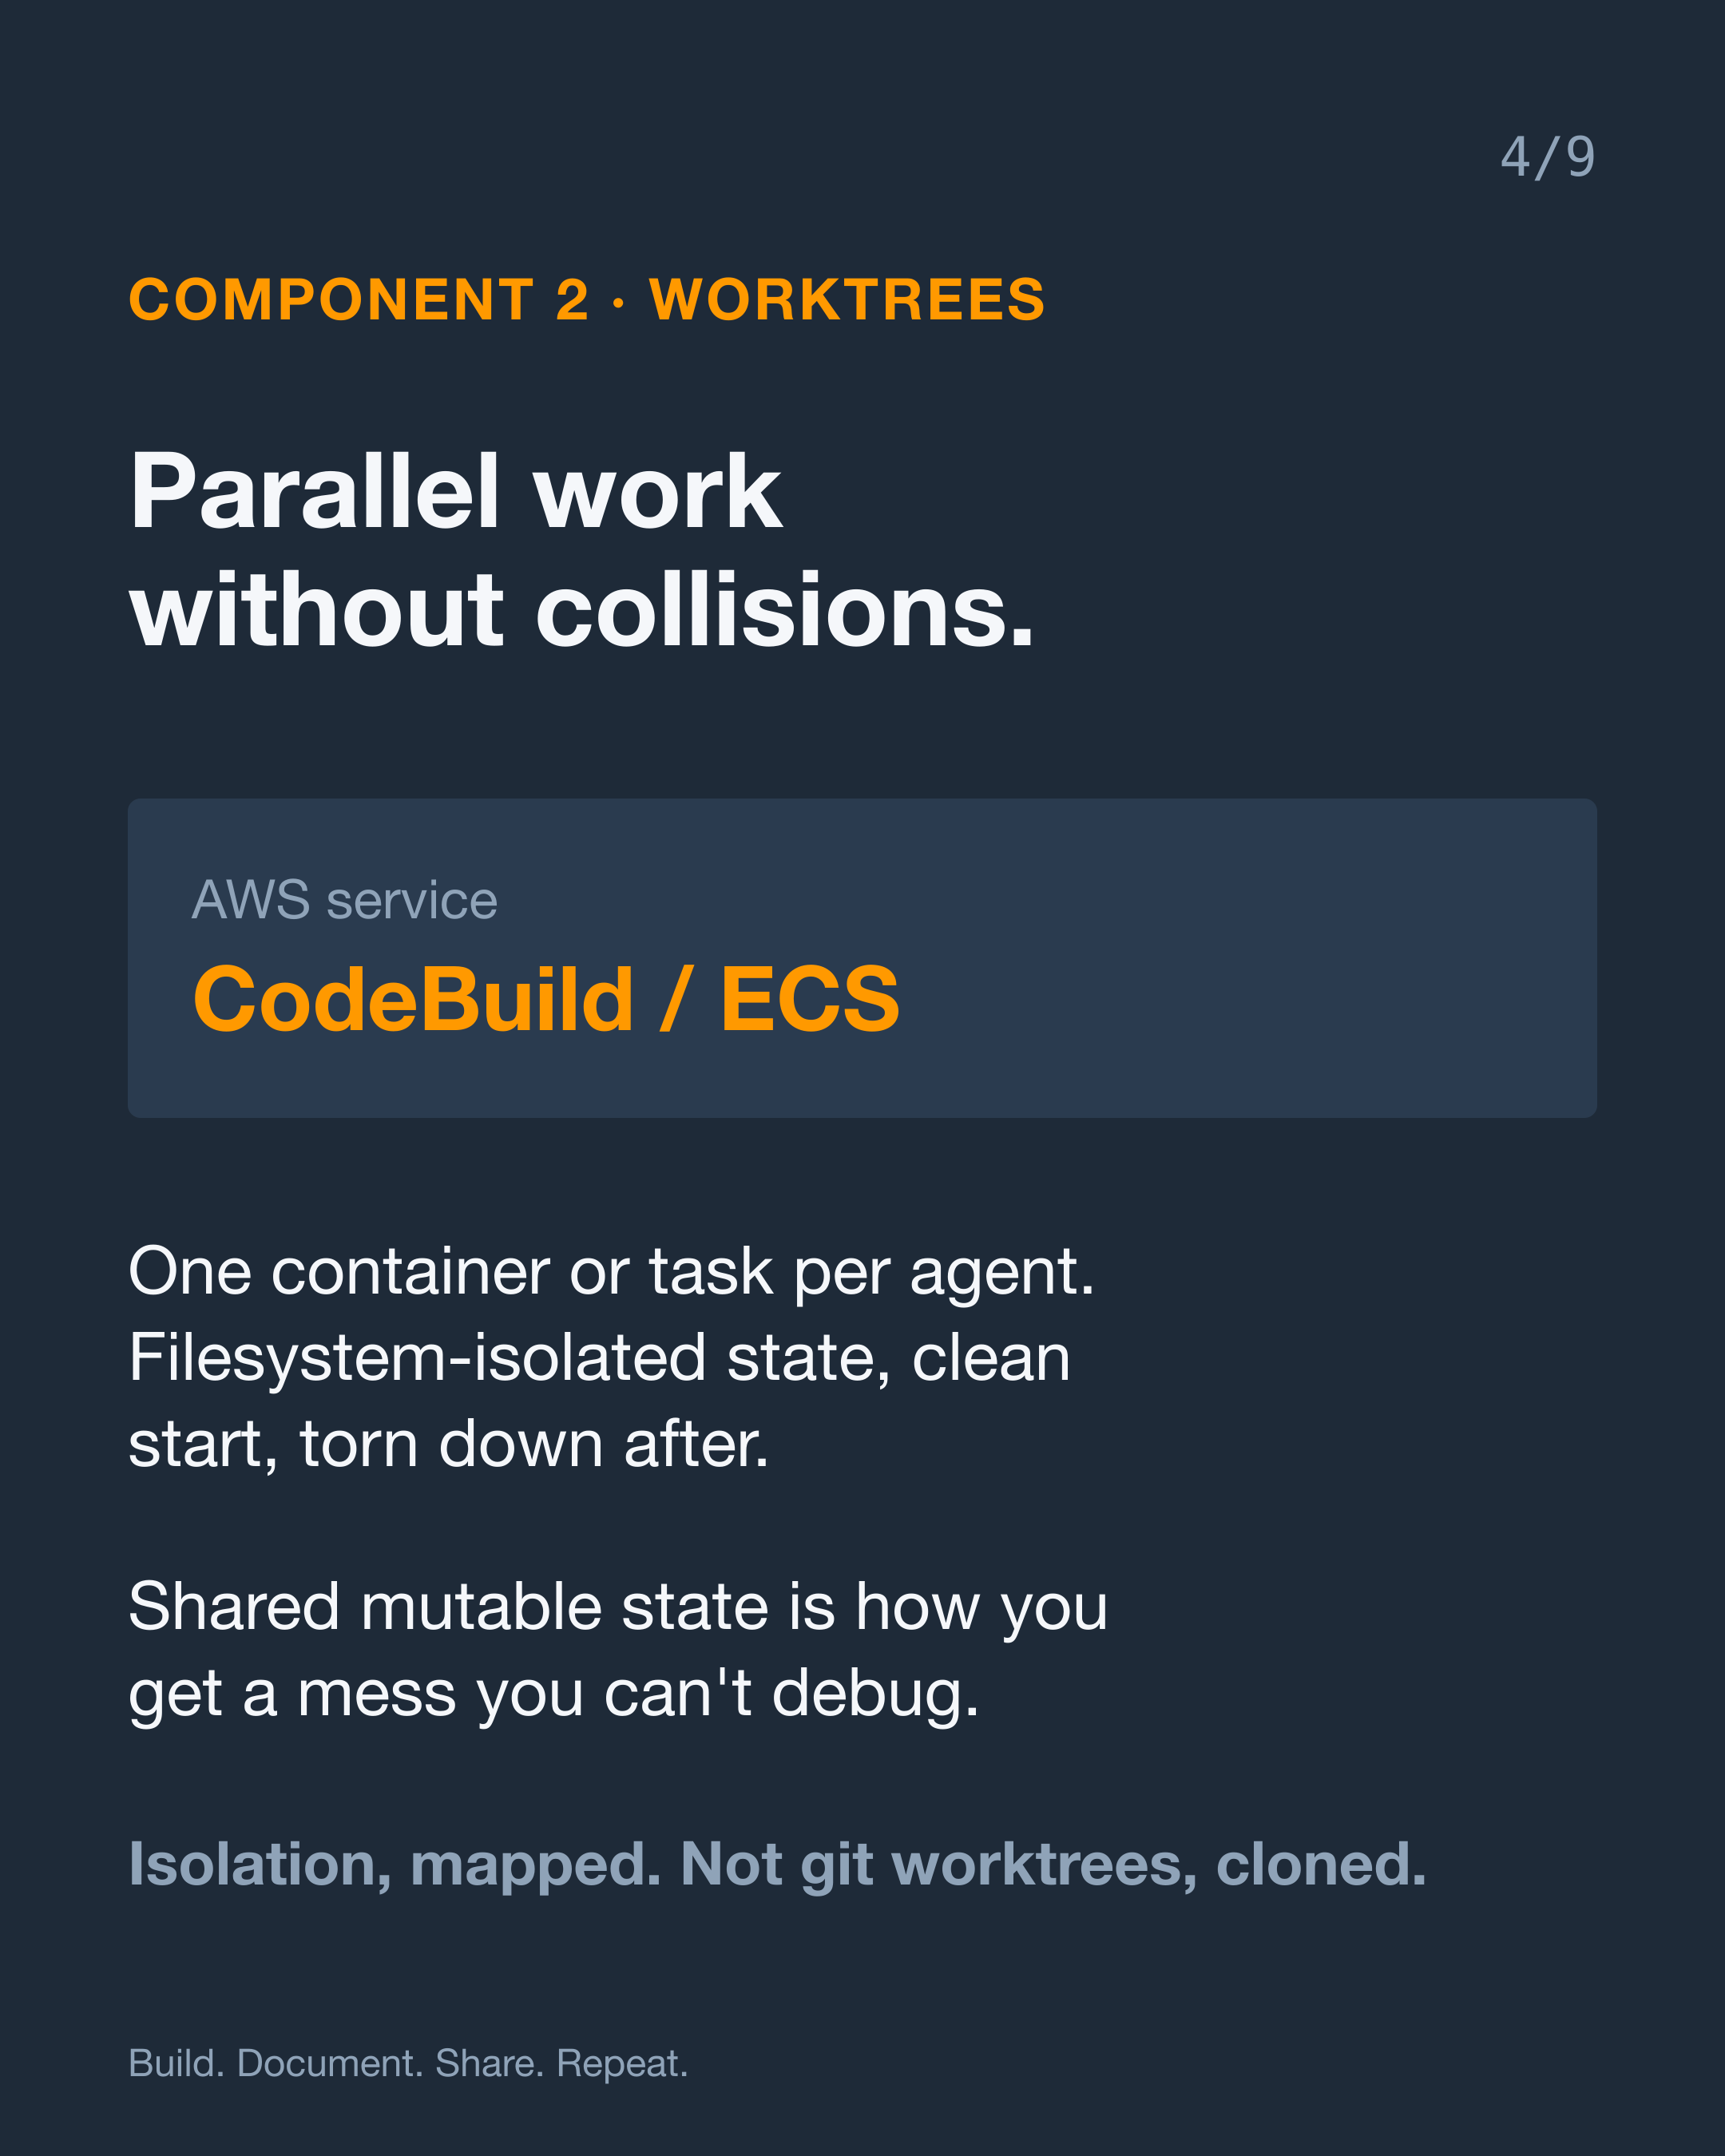
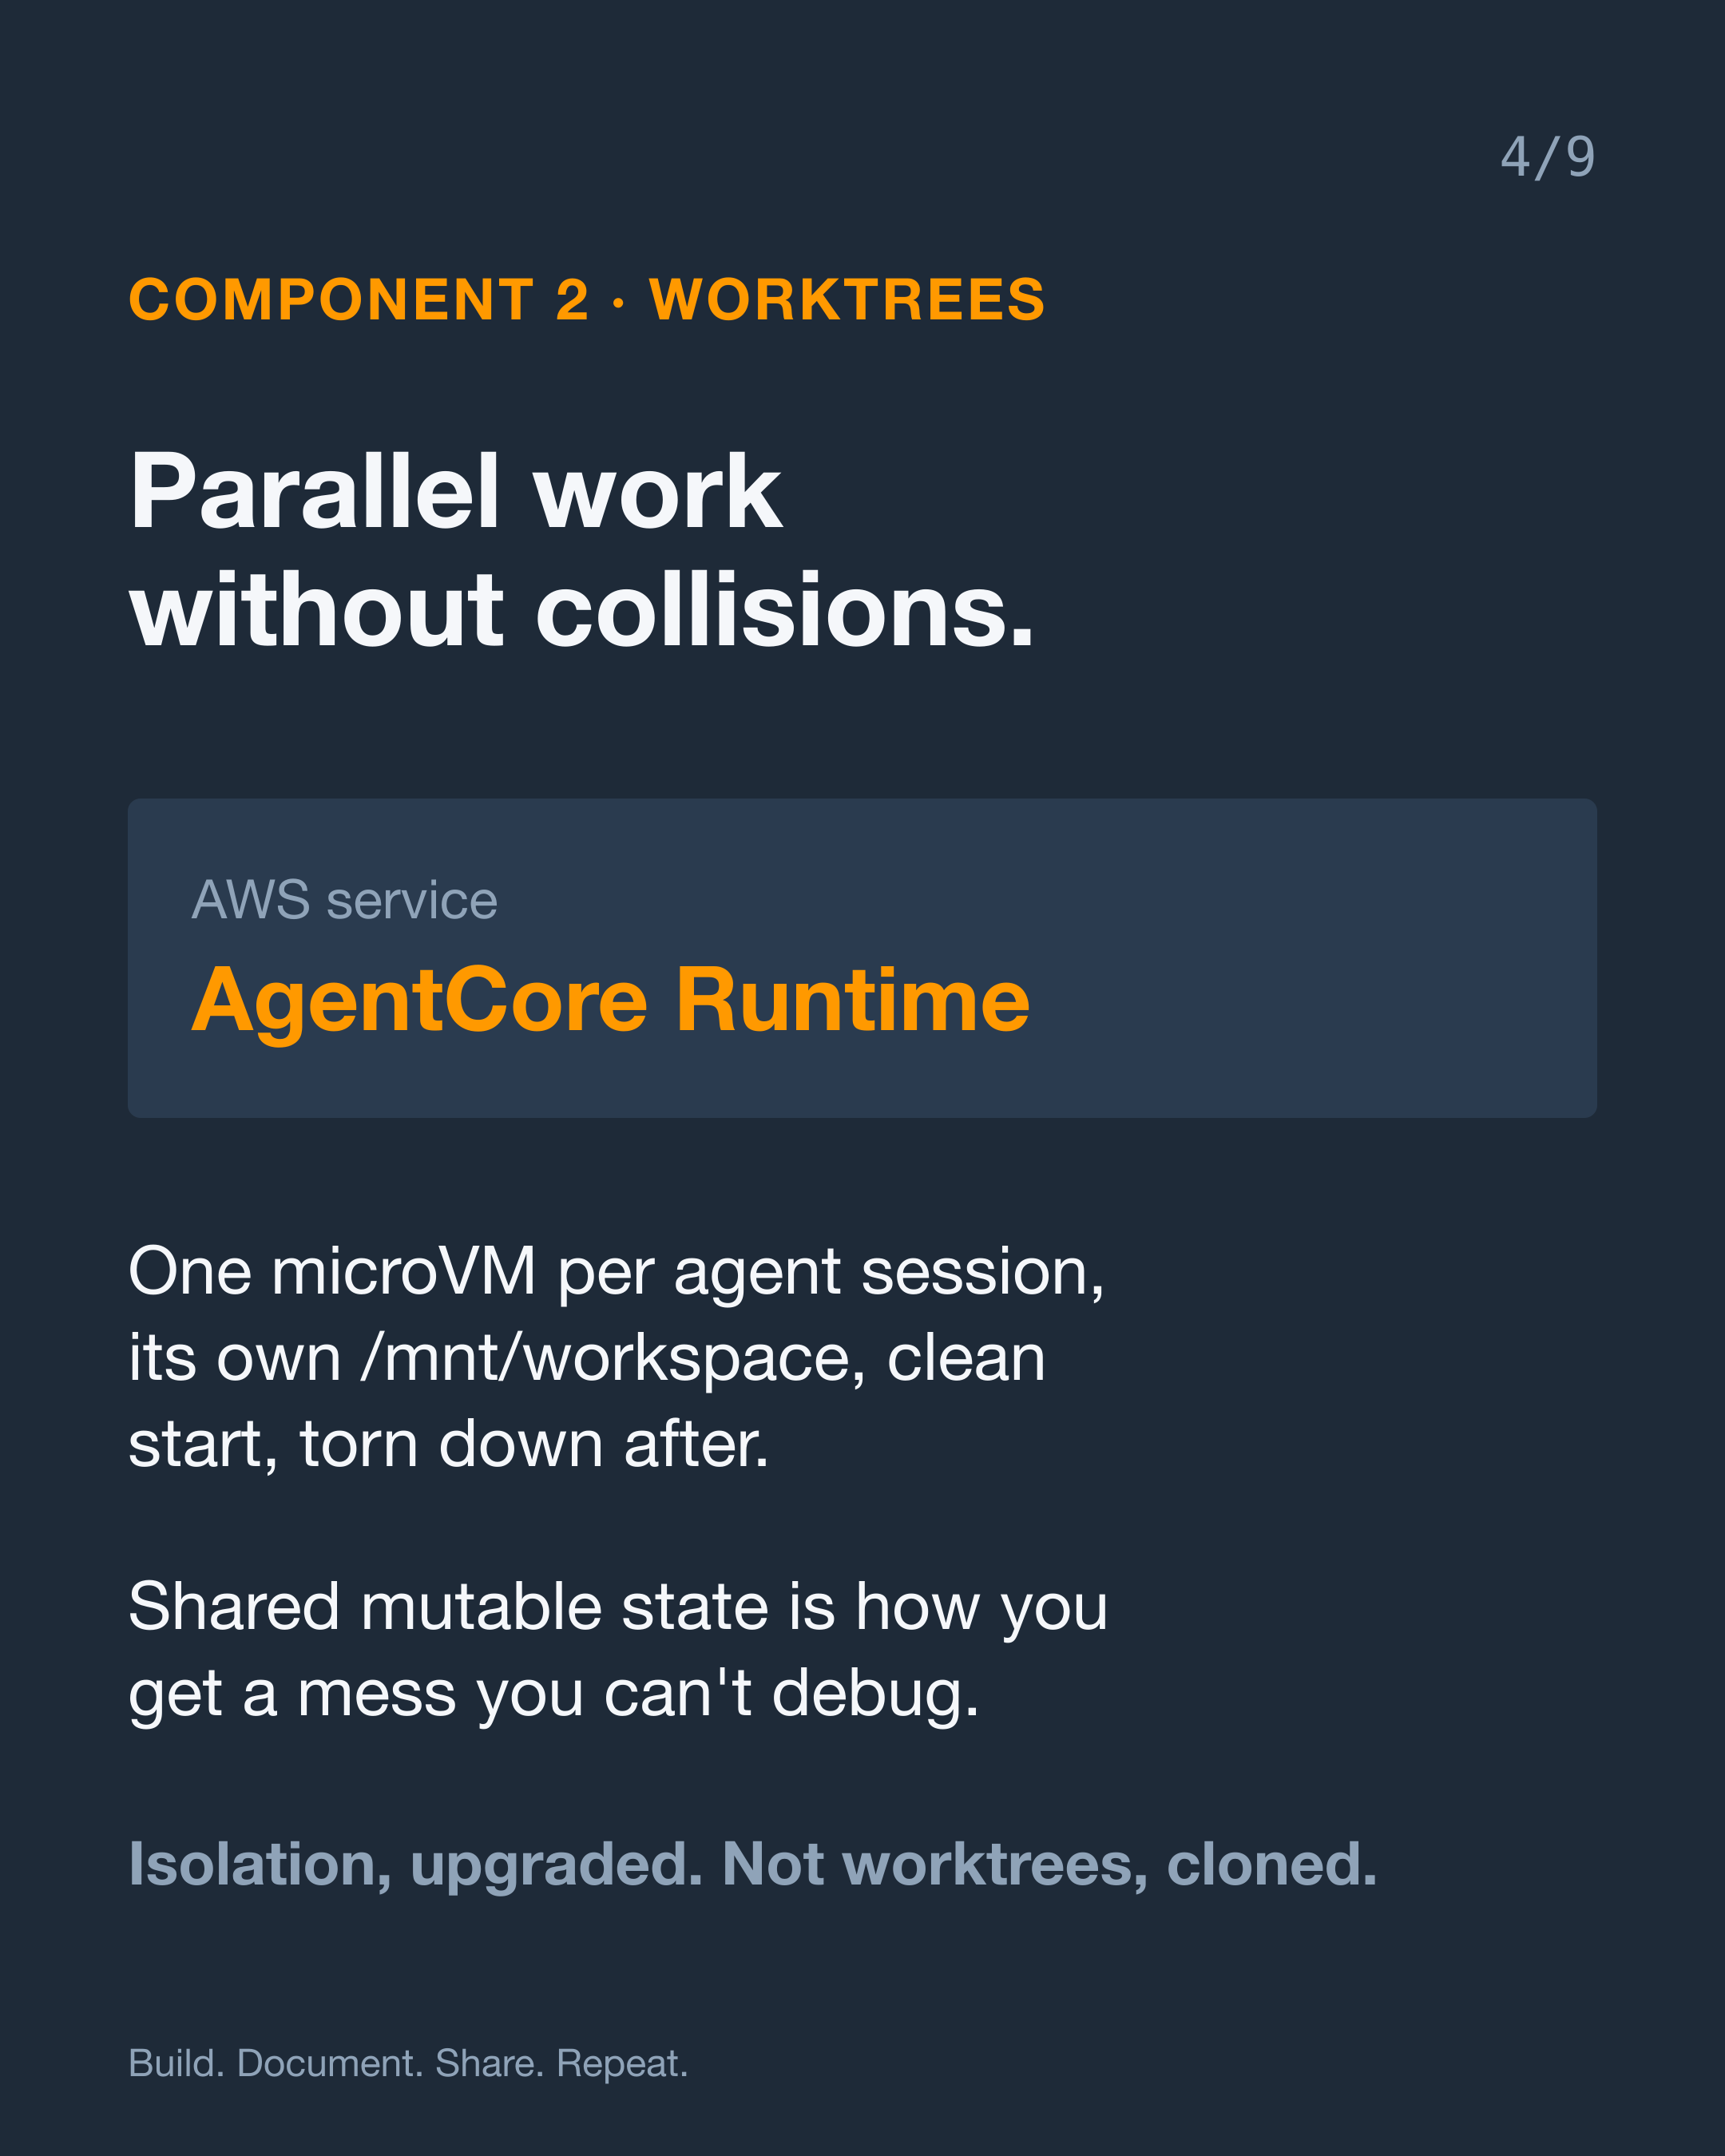
Retarget AgentCore: loop-engineering (pre-publish, T-2 verify-flags)
Bedrock Agents goes Classic Jul 30 (closed to new customers) — caught at
verify-flags, second save by the gate after gstack. Sub-agents row, code
sample, diagram and graphics retargeted to AgentCore harness/Runtime;
4 VERIFY flags resolved against primary sources; worktrees section
upgraded to microVM isolation; regional quota nuance; Osmani component
count precised (5 + memory). Publishes Tue Jul 21.

Changed region(s): [[0.062, 0.56, 0.6204, 0.6533], [0.0931, 0.4356, 0.5894, 0.4978], [0.2481, 0.84, 0.8375, 0.9022]]

diff --git a/articles/devto/loop-engineering-on-aws.md b/articles/devto/loop-engineering-on-aws.md
@@ -23,26 +23,26 @@ That's the gap this article fills. Six components, six concrete services, one mi
 
 ## The six components, and why the timing is not an accident
 
-Osmani breaks a loop into six parts: automations, worktrees, skills, plugins (MCP), sub-agents, and memory files. Read that list as an architecture. Each part answers a different question. What triggers the work. Where the work runs in isolation. What the agent knows. How it reaches tools. Who does the specialized labor. And what it remembers between runs.
+Osmani lists five components: automations, worktrees, skills, plugins (MCP), and sub-agents, plus memory as what he calls the sixth thing, state that lives outside the single conversation. Read that list as an architecture. Each part answers a different question. What triggers the work. Where the work runs in isolation. What the agent knows. How it reaches tools. Who does the specialized labor. And what it remembers between runs.
 
-The reason this is worth writing *now* is that the AWS side matured on almost the same calendar as Osmani's post. AWS MCP Server hit GA in May 2026. AgentCore Policy went GA in March, AgentCore Evaluations the same month, and the AgentCore harness reached GA in June 2026 (<!-- VERIFY: confirm AgentCore harness GA date; seed cites 2026-06 AWS What's New -->). Two threads, the mental model and the infrastructure, arrived at the same knot in the same month.
+The reason this is worth writing *now* is that the AWS side matured on almost the same calendar as Osmani's post. AWS MCP Server hit GA in May 2026. AgentCore Policy went GA in March, AgentCore Evaluations the same month, and the AgentCore harness reached GA in June 2026, per the [AgentCore release notes](https://docs.aws.amazon.com/bedrock-agentcore/latest/devguide/release-notes.html). Two threads, the mental model and the infrastructure, arrived at the same knot in the same month.
 
 Here is the map I keep coming back to.
 
-![Six loop components mapped to AWS services: Automations to EventBridge plus Lambda, Worktrees to CodeBuild/ECS tasks, Skills to Bedrock Knowledge Bases, Plugins (MCP) to AWS MCP Server, Sub-agents to Bedrock Agents, Memory files to S3 plus DynamoDB](https://raw.githubusercontent.com/rivadaviam/aws-articles/main/articles/assets/loop-engineering-on-aws/01-osmani-aws-map.png)
+![Six loop components mapped to AWS services: Automations to EventBridge plus Lambda, Worktrees to AgentCore Runtime microVMs, Skills to Bedrock Knowledge Bases, Plugins (MCP) to AWS MCP Server, Sub-agents to AgentCore harness, Memory files to S3 plus DynamoDB](https://raw.githubusercontent.com/rivadaviam/aws-articles/main/articles/assets/loop-engineering-on-aws/01-osmani-aws-map.png?v=2)
 
 *Osmani's six loop components on the left, the AWS service each one lives on when you run it in production on the right.*
 
 | Component (Osmani) | What it does | AWS service | Key config |
 |---|---|---|---|
 | **Automations** | Scheduled discovery. The loop fires itself, no human prompt. | EventBridge (scheduled rules + event bus) → Lambda | Cron expression or event pattern; Lambda as dispatcher |
-| **Worktrees** | Isolated branch per agent so parallel runs don't collide | CodeBuild containers / ECS tasks | One task definition per agent; filesystem-isolated state |
+| **Worktrees** | Isolated branch per agent so parallel runs don't collide | AgentCore Runtime (microVM per session) | Each session gets its own `/mnt/workspace`; git stays the coordination layer |
 | **Skills** | Reusable project knowledge the agent loads into context | Bedrock Knowledge Bases (Smart Parsing) | Pre-computed chunking + embeddings; structured S3 too |
 | **Plugins / MCP** | Standard connection to external tools | AWS MCP Server (GA May 2026) | The new default; replaced custom integrations |
-| **Sub-agents** | Specialists orchestrated by a coordinator | Bedrock Agents (multi-agent collaboration) | Orchestrator + specialist agents; AgentCore harness |
+| **Sub-agents** | Specialists orchestrated by a coordinator | AgentCore harness (GA June 2026) | Orchestrator harness routing to specialist agents |
 | **Memory files** | State that survives between sessions | S3 (long-term) + DynamoDB (short-term) | S3 for context files; DynamoDB for fast state |
 
-Sources: [Addy Osmani, LinkedIn (June 9, 2026)](https://www.linkedin.com/posts/addyosmani_ai-softwareengineering-programming-activity-7469999258658791425-cTvy); [AWS MCP Servers announcement](https://aws.amazon.com/blogs/machine-learning/introducing-aws-mcp-servers-for-code-assistants/); [Amazon Bedrock Agents](https://aws.amazon.com/bedrock/agents/).
+Sources: [Addy Osmani, LinkedIn (June 9, 2026)](https://www.linkedin.com/posts/addyosmani_ai-softwareengineering-programming-activity-7469999258658791425-cTvy); [AWS MCP Servers announcement](https://aws.amazon.com/blogs/machine-learning/introducing-aws-mcp-servers-for-code-assistants/); [Amazon Bedrock AgentCore](https://docs.aws.amazon.com/bedrock-agentcore/latest/devguide/what-is-bedrock-agentcore.html).
 
 Let me walk each row, because a table hides the interesting decisions.
 
@@ -57,18 +57,19 @@ On AWS, the trigger is EventBridge. A scheduled rule handles the "run discovery 
 ```python
 # Lambda dispatcher — invoked by an EventBridge scheduled rule.
 # Job: decide what this cycle's objective is, then hand it to the orchestrator.
+# IAM: this function's role needs bedrock-agentcore:InvokeAgentRuntime on the runtime ARN.
+import json
 import boto3
 
-bedrock_agent = boto3.client("bedrock-agent-runtime")
+agentcore = boto3.client("bedrock-agentcore")
 
 def handler(event, context):
     # EventBridge gives us the trigger; we set the recursive objective.
     objective = build_objective_from(event)   # cron tick or event payload
-    response = bedrock_agent.invoke_agent(
-        agentId="ORCH_AGENT_ID",
-        agentAliasId="PROD",
-        sessionId=session_for(event),          # ties back to memory, see below
-        inputText=objective,
+    response = agentcore.invoke_agent_runtime(
+        agentRuntimeArn="ORCH_RUNTIME_ARN",
+        runtimeSessionId=session_for(event),   # ties back to memory, see below
+        payload=json.dumps({"prompt": objective}),
     )
     return {"status": "dispatched", "objective": objective}
 ```
@@ -81,9 +82,9 @@ Why put a Lambda between EventBridge and Bedrock at all? Because the dispatcher 
 
 Osmani's "worktrees" borrows from git: each agent gets its own branch so two agents editing the same tree don't corrupt each other's state. When agents run in parallel, shared mutable state is how you get a mess that's impossible to debug.
 
-The AWS translation is filesystem-level isolation per agent: a CodeBuild container or an ECS task per agent, one task definition each. Each run gets a clean, isolated environment and tears down after.
+The AWS translation is isolation per agent session: AgentCore Runtime runs each session in its own microVM. Each run gets a clean, isolated environment and tears down after.
 
-I want to be honest about the seam here. The seed maps worktrees to CodeBuild and ECS, and for isolation that holds. But Osmani's worktrees are literally git worktrees inside a running coding agent, and whether you reproduce *that* on Bedrock (agents operating on real git worktrees, not just isolated containers) is a different question I haven't run to ground. <!-- VERIFY: can Bedrock Agents operate on actual git worktrees, or is the CodeBuild/ECS mapping only an isolation analogy? Seeds assert the mapping but don't prove the git-worktree equivalence. --> Treat this row as "isolation, mapped," not "git worktrees, reproduced." I'd rather flag the gap than sell you a clean line that isn't clean.
+I flagged this row as a seam in an early draft, and running it to ground made the map better. Osmani's worktrees are literally git worktrees inside a running coding agent, and AWS doesn't reproduce them. It replaces them. Each AgentCore session gets its own microVM with its own `/mnt/workspace`, so the isolation that git worktrees fake at the directory level happens at the machine level, with git left in place as the coordination layer. [AWS's own write-up on hosting coding agents](https://aws.amazon.com/blogs/machine-learning/its-safe-to-close-your-laptop-now-hosting-coding-agents-on-amazon-bedrock-agentcore/) is explicit: no worktree management needed, because the filesystem itself is per-session. Treat this row as "isolation, upgraded," not "git worktrees, reproduced."
 
 ---
 
@@ -99,7 +100,7 @@ The decision I'd surface here is *when* Knowledge Bases earns its cost. Retrieva
 
 This is the row that changed the most in 2026. The Model Context Protocol went from "interesting" to the default way agents reach tools. The production-stack write-up from @codewithbrij (Instagram, ~May 2026, 649 likes) put it bluntly: MCP replaced custom integrations, and the whole stack stopped growing taller and instead thinned out in the middle and thickened at the edges. Fewer bespoke connectors, more standard ones.
 
-AWS MCP Server reaching GA in May 2026 is what makes this real on AWS, and per Prasad Rao (AWS Principal SA, LinkedIn, May 2026) it's pay-as-you-go with no extra charge for the server itself (<!-- VERIFY: confirm "no extra charge for the Bedrock MCP Server" against current AWS pricing before publishing -->). Practically, MCP is how your orchestrator calls out to external tools without you writing and maintaining glue code for each one.
+AWS MCP Server reaching GA in May 2026 is what makes this real on AWS, and per Prasad Rao (AWS Principal SA, LinkedIn, May 2026) it's pay-as-you-go with no extra charge for the server itself, which [AWS's GA announcement](https://aws.amazon.com/about-aws/whats-new/2026/05/aws-mcp-server/) confirms: you pay only for the resources your agents use. Practically, MCP is how your orchestrator calls out to external tools without you writing and maintaining glue code for each one.
 
 ---
 
@@ -107,7 +108,7 @@ AWS MCP Server reaching GA in May 2026 is what makes this real on AWS, and per P
 
 A single agent doing everything is a single agent doing everything badly. Osmani's loop uses sub-agents: specialists, each good at one thing, orchestrated by a coordinator.
 
-Bedrock Agents supports multi-agent collaboration directly: an orchestrator agent routes work to specialist agents. The AgentCore harness is what holds that arrangement together in production. And "in production" comes with numbers you should know before you design: AgentCore documents a quota of **200 TPS per agent** and **5,000 active sessions per account** ([AgentCore release notes](https://docs.aws.amazon.com/bedrock-agentcore/latest/devguide/release-notes.html)). Agents hold sessions, sometimes for a long time, so the session ceiling is the one I'd model first. It's easy to blow past 5,000 concurrent sessions with a fleet of long-lived loops and never touch the TPS limit.
+On AWS this now lives in one place: the AgentCore harness, GA since June 2026, holds an orchestrator and its specialists together in production. (If you were about to reach for Bedrock Agents for this row, don't. That service is now [Bedrock Agents Classic](https://docs.aws.amazon.com/bedrock/latest/userguide/agents-classic-maintenance-mode.html) and closes to new customers on July 30, 2026; AWS points migrations at AgentCore.) And "in production" comes with numbers you should know before you design: AgentCore's June 2026 quotas are **200 TPS per agent** and **5,000 active sessions per account** in us-east-1 and us-west-2, 2,500 in other Regions ([AgentCore release notes](https://docs.aws.amazon.com/bedrock-agentcore/latest/devguide/release-notes.html)). Agents hold sessions, sometimes for a long time, so the session ceiling is the one I'd model first. It's easy to blow past 5,000 concurrent sessions with a fleet of long-lived loops and never touch the TPS limit.
 
 This is also where Osmani's *other* framing clicks into place. A month before the LinkedIn post, he wrote on O'Reilly Radar about "agent harness engineering," and the line worth taping to your monitor is: *"A decent model with an excellent harness outperforms an excellent model with a poor harness."* The harness and the loop are the same idea named for two audiences. The AgentCore harness is AWS's answer to exactly that sentence.
 
@@ -128,7 +129,7 @@ Put the six together and you get a loop small enough to draw and real enough to 
 ```
 EventBridge rule (cron / event)
   -> Lambda (dispatcher, sets objective + circuit breaker)
-    -> Bedrock Agents (orchestrator)
+    -> AgentCore harness (orchestrator)
         |- MCP Server (external tools)
         |- Knowledge Base (context / skills)
         |- Sub-agents (specialists)
@@ -136,7 +137,7 @@ EventBridge rule (cron / event)
   -> CloudWatch (loop observability)
 ```
 
-<!-- VERIFY: confirm exact IAM permissions and ARNs for the EventBridge -> Lambda -> Bedrock Agents chain against current docs before anyone runs this. -->
+The permission chain is short. EventBridge needs invoke on the Lambda, and the Lambda's role needs `bedrock-agentcore:InvokeAgentRuntime` on the orchestrator's runtime ARN ([invoke docs](https://docs.aws.amazon.com/bedrock-agentcore/latest/devguide/runtime-invoke-agent.html)). That's the whole chain.
 
 Notice observability is on the diagram, not a footnote. The @codewithbrij write-up made the point that stuck with me: in 2026 you don't bolt observability on at day 100. It runs vertically through the whole thing from day 1, as a rail. On AWS that rail is X-Ray for distributed traces across the full loop (trigger to agent to tool to response), CloudWatch for latency and token metrics, and CloudTrail for the audit log of what the agent decided. If you're doing this for an enterprise, CloudTrail is the row compliance will ask about first.
 
@@ -158,14 +159,14 @@ I feel this one personally, because I run these loops daily. The temptation is r
 
 ## What I'd tell you to do next
 
-Start smaller than the diagram. One EventBridge rule, one Lambda dispatcher, one Bedrock agent, and DynamoDB for state. Skip the sub-agents, skip the Knowledge Base, skip MCP until the two-box loop runs clean. Add each component only when the loop's actually straining without it. A loop you understand beats a loop that impresses.
+Start smaller than the diagram. One EventBridge rule, one Lambda dispatcher, one AgentCore agent, and DynamoDB for state. Skip the sub-agents, skip the Knowledge Base, skip MCP until the two-box loop runs clean. Add each component only when the loop's actually straining without it. A loop you understand beats a loop that impresses.
 
 If you want to go deeper: take the six-row table above and, for one component, write the ADR. Automations is the easiest place to start. Why EventBridge scheduled rule over a Step Functions timer? What's your circuit breaker in the dispatcher? Write down the decision and the trade-off you rejected, because that's the artifact that makes the loop yours instead of a copy of mine.
 
-And if you build one, come tell me where the six-component map broke for you. I flagged two seams in this article where I'm not fully sure the AWS mapping holds (worktrees, and the exact IAM chain). If you've run those to ground, I want the correction more than I want to be right. That's the whole point of building in public.
+And if you build one, come tell me where the six-component map broke for you. Two seams I flagged in an early draft (worktrees, and the exact IAM chain) got run to ground during verification, and both answers made the map stronger. Find me the next one. I want the correction more than I want to be right. That's the whole point of building in public.
 
 Build the loop. Stay the engineer.
 
 ---
 
-*Sources: Addy Osmani, ["Loop engineering," LinkedIn (June 9, 2026)](https://www.linkedin.com/posts/addyosmani_ai-softwareengineering-programming-activity-7469999258658791425-cTvy) and ["Agent Harness Engineering," O'Reilly Radar (May 2026)](https://www.oreilly.com/radar/agent-harness-engineering/); @codewithbrij, "The AI Production Stack — May 2026 Edition" (Instagram); Prasad Rao (AWS Principal SA), Claude Code on Bedrock enterprise setup (LinkedIn, May 2026); [AWS MCP Servers](https://aws.amazon.com/blogs/machine-learning/introducing-aws-mcp-servers-for-code-assistants/), [Bedrock Agents](https://aws.amazon.com/bedrock/agents/), [AgentCore release notes](https://docs.aws.amazon.com/bedrock-agentcore/latest/devguide/release-notes.html), [AgentCore Evaluations GA](https://aws.amazon.com/about-aws/whats-new/2026/03/agentcore-evaluations-generally-available/).*
+*Sources: Addy Osmani, ["Loop engineering," LinkedIn (June 9, 2026)](https://www.linkedin.com/posts/addyosmani_ai-softwareengineering-programming-activity-7469999258658791425-cTvy) and ["Agent Harness Engineering," O'Reilly Radar (May 2026)](https://www.oreilly.com/radar/agent-harness-engineering/); @codewithbrij, "The AI Production Stack — May 2026 Edition" (Instagram); Prasad Rao (AWS Principal SA), Claude Code on Bedrock enterprise setup (LinkedIn, May 2026); [AWS MCP Servers](https://aws.amazon.com/blogs/machine-learning/introducing-aws-mcp-servers-for-code-assistants/), [Amazon Bedrock AgentCore](https://docs.aws.amazon.com/bedrock-agentcore/latest/devguide/what-is-bedrock-agentcore.html), [Bedrock Agents Classic maintenance mode](https://docs.aws.amazon.com/bedrock/latest/userguide/agents-classic-maintenance-mode.html), [AgentCore release notes](https://docs.aws.amazon.com/bedrock-agentcore/latest/devguide/release-notes.html), [AgentCore Evaluations GA](https://aws.amazon.com/about-aws/whats-new/2026/03/agentcore-evaluations-generally-available/).*